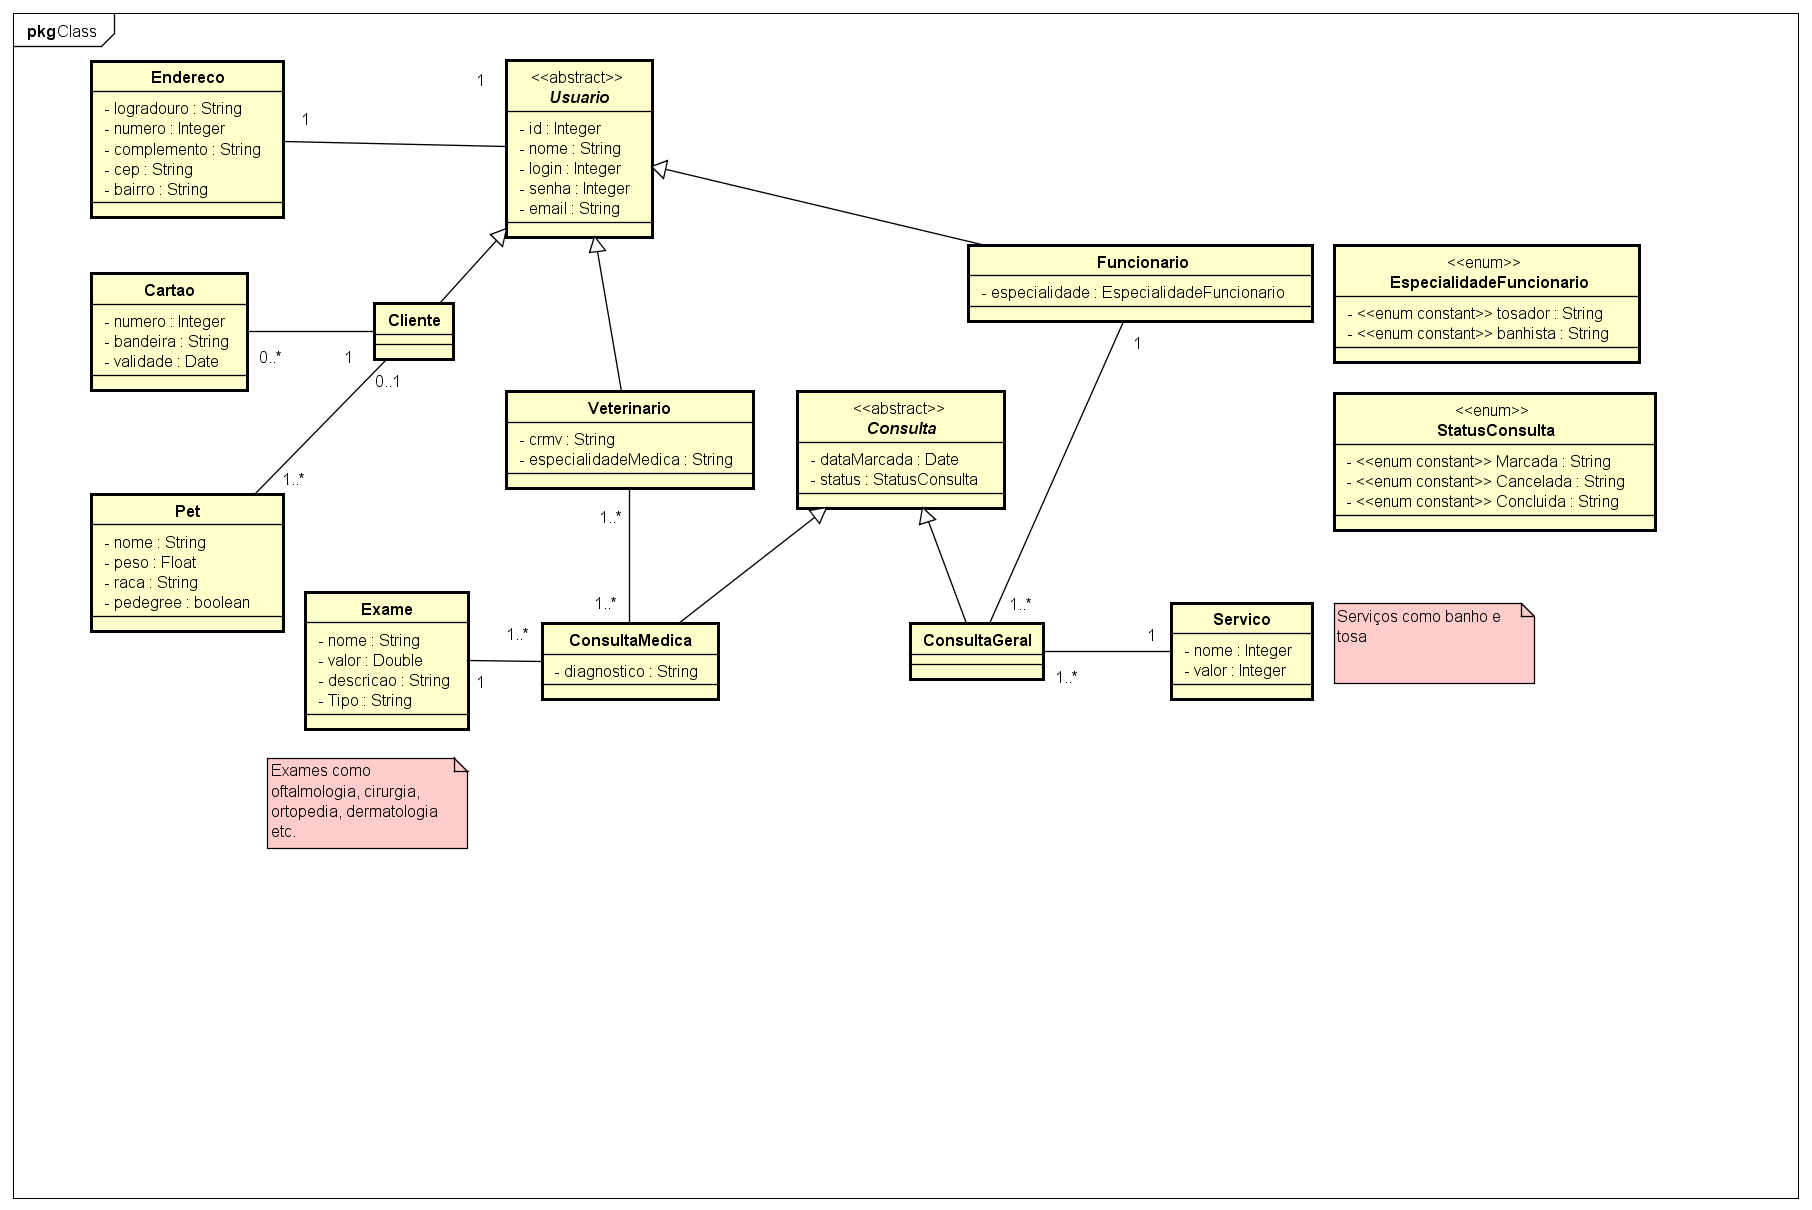
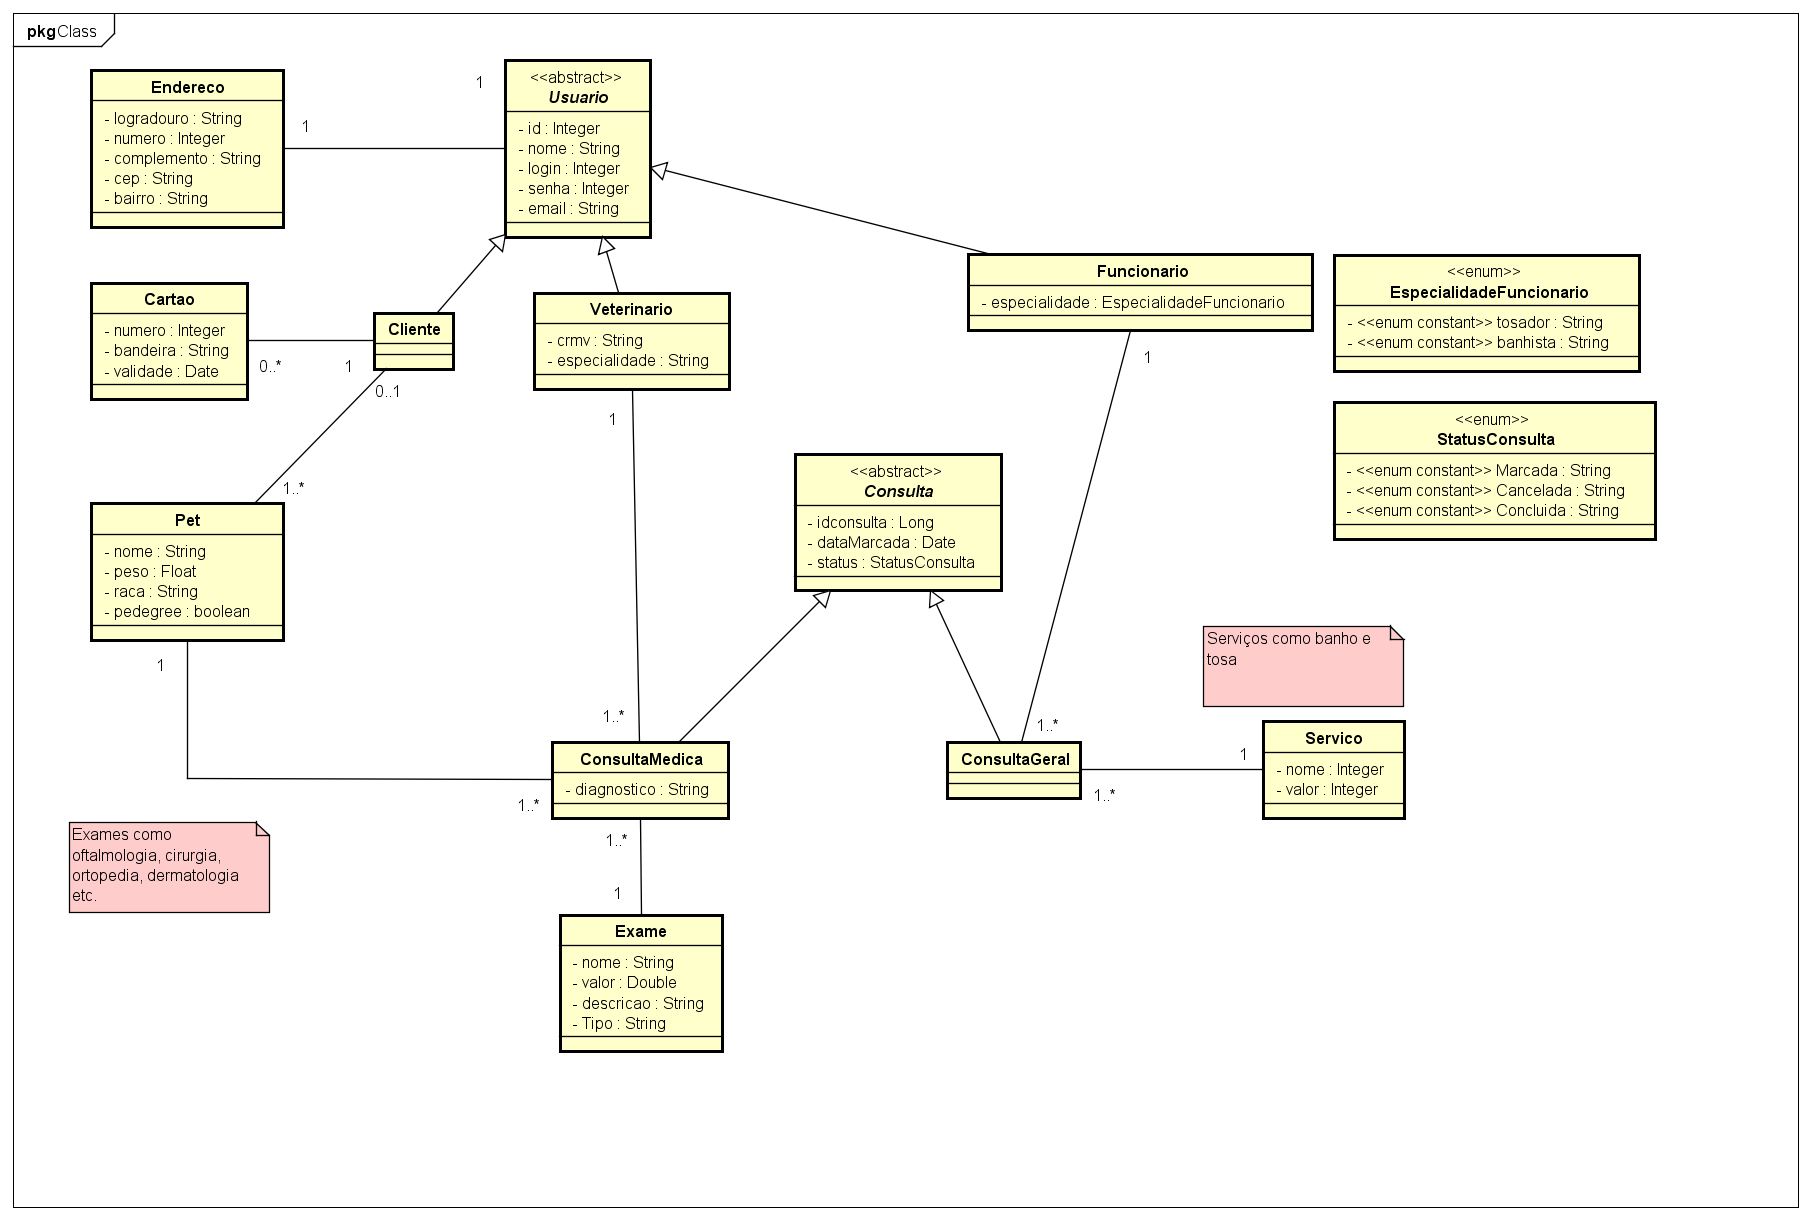
Terminado o mapeamento

diff --git a/Projeto/sistemaPetShop/src/main/java/com/sistema/model/Funcionario.java b/Projeto/sistemaPetShop/src/main/java/com/sistema/model/Funcionario.java
@@ -8,6 +8,8 @@ import javax.persistence.CascadeType;
 import javax.persistence.Column;
 import javax.persistence.DiscriminatorValue;
 import javax.persistence.Entity;
+import javax.persistence.EnumType;
+import javax.persistence.Enumerated;
 import javax.persistence.FetchType;
 import javax.persistence.OneToMany;
 import javax.persistence.PrimaryKeyJoinColumn;
@@ -24,12 +26,15 @@ import javax.persistence.Table;
 @Access(AccessType.FIELD)
 public class Funcionario extends Usuario implements Serializable{
     
+    
+    @Enumerated(EnumType.STRING)
     @Column (name = "enum_especialidadeFuncionario")
     private EspecialidadeFuncionario especialidadeFuncionario;
     
-    // Relacionamento Consulta Geral
+    // Relacionamento ConsultaGeral
     @OneToMany(mappedBy = "funcionario", fetch = FetchType.LAZY, cascade = CascadeType.ALL, orphanRemoval = false)
     private List<ConsultaGeral> listaConsultaGeral;
+    
     
     // getters e Setters -----------------------------
     public EspecialidadeFuncionario getEspecialidadeFuncionario() {

diff --git a/Projeto/sistemaPetShop/src/main/java/com/sistema/model/Veterinario.java b/Projeto/sistemaPetShop/src/main/java/com/sistema/model/Veterinario.java
@@ -10,6 +10,8 @@ import java.util.List;
 import javax.persistence.Column;
 import javax.persistence.DiscriminatorValue;
 import javax.persistence.Entity;
+import javax.persistence.EnumType;
+import javax.persistence.Enumerated;
 import javax.persistence.FetchType;
 import javax.persistence.JoinColumn;
 import javax.persistence.OneToMany;
@@ -29,6 +31,7 @@ public class Veterinario extends Usuario implements Serializable {
     @Column(name = "str_crmv", nullable = false, length = 60, unique = true)
     private String crmv;
 
+    @Enumerated(EnumType.STRING)
     @Column(name = "str_especialidade", nullable = false, length = 60)
     private String especialidade;
 

diff --git a/Projeto/sistemaPetShop/src/main/java/com/sistema/model/Endereco.java b/Projeto/sistemaPetShop/src/main/java/com/sistema/model/Endereco.java
@@ -1,6 +1,8 @@
 package com.sistema.model;
 
 import java.io.Serializable;
+import javax.persistence.Access;
+import javax.persistence.AccessType;
 import javax.persistence.Column;
 import javax.persistence.Entity;
 import javax.persistence.FetchType;
@@ -16,6 +18,7 @@ import javax.persistence.Table;
  */
 @Entity
 @Table(name = "tb_endereco")
+@Access(AccessType.FIELD)
 public class Endereco implements Serializable {
 
     @Id

diff --git a/Projeto/sistemaPetShop/src/main/java/com/sistema/model/EspecialidadeFuncionario.java b/Projeto/sistemaPetShop/src/main/java/com/sistema/model/EspecialidadeFuncionario.java
@@ -4,8 +4,9 @@ package com.sistema.model;
  *
  * @author Jonathan Romualdo
  */
+
 public enum EspecialidadeFuncionario{
     
-    BANHISTA, TOSADOR, VETERINARIO;
+    BANHISTA, TOSADOR;
     
 }
